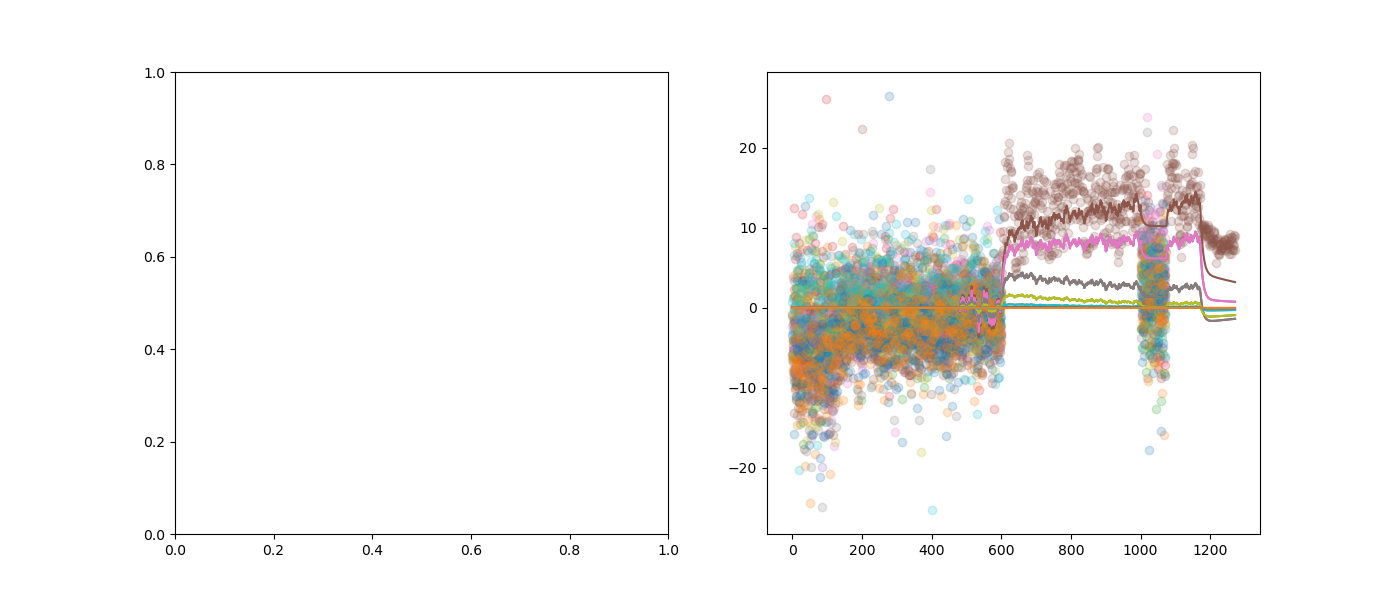
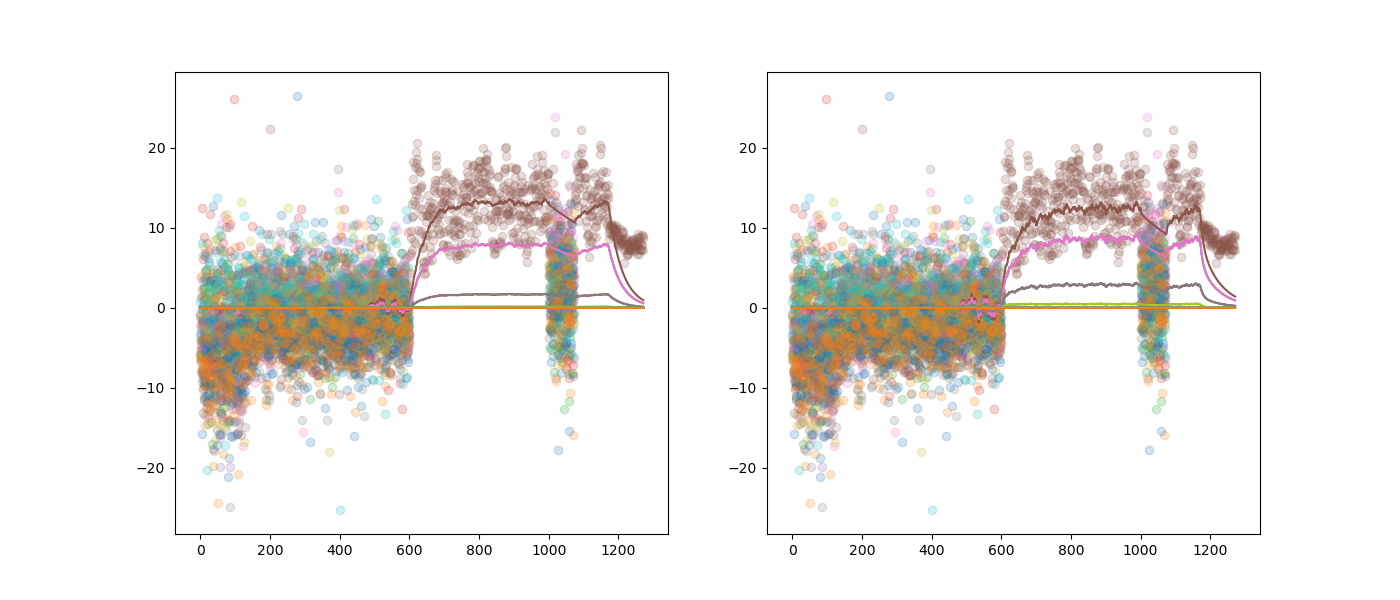
added grp to 1 state model

diff --git a/code/inspect_results.py b/code/inspect_results.py
@@ -184,6 +184,49 @@ def fit_obj_func_sse_2_state(params, *args):
 
     return (sse)
 
+def fit_state_space_with_g_func_grp():
+    f_name = '../fit_input/master_data.csv'
+
+    d = pd.read_csv(f_name)
+    p_rec = np.empty((0, 3))
+
+    rot = d[d['sub'] == 1]['Appl_Perturb'].values
+
+    x_obs_all = d.groupby(['cnd', 'Target', 'trial']).mean()
+    x_obs_all.reset_index(inplace=True)
+
+    for i in range(x_obs_all['cnd'].unique().shape[0]):
+        x_obs = x_obs_all[x_obs_all['cnd'] == i]
+        x_obs = x_obs[["Endpoint_Error", "Target", "target_deg", "trial"]]
+        x_obs = x_obs.pivot(index="trial",
+                            columns="target_deg",
+                            values="Endpoint_Error")
+
+        x_obs = x_obs.values
+
+        args = (x_obs, rot)
+        bounds = ((0, 1), (0, 1), (0, 60))
+        results = differential_evolution(func=fit_obj_func_sse,
+                                        bounds=bounds,
+                                        args=args,
+                                        maxiter=300,
+                                        disp=False,
+                                        polish=True,
+                                        updating="deferred",
+                                        workers=-1)
+        p = results["x"]
+        x_pred = simulate_state_space_with_g_func(p, rot)
+
+        c = cm.rainbow(np.linspace(0, 1, 12))
+
+        p_rec = np.append(p_rec, [p], axis=0)
+
+        f_name_p = "../fits/fit_grp_" + str(i)
+        with open(f_name_p, "w") as f:
+            np.savetxt(f, p, "%0.4f", ",")
+
+    return p_rec
+
 
 def fit_state_space_with_g_func_2_state_grp():
     f_name = '../fit_input/master_data.csv'
@@ -392,15 +435,15 @@ def inspect_fits_grp():
 
         fig, ax = plt.subplots(nrows=1, ncols=2, figsize=(14, 6))
 
-        # # NOTE: 1 state
-        # params = np.loadtxt("../fits/fit_grp" + str(sub[i]))
-        # x_pred = simulate_state_space_with_g_func(params, rot)
+        # NOTE: 1 state
+        params = np.loadtxt("../fits/fit_grp_" + str(i))
+        x_pred = simulate_state_space_with_g_func(params, rot)
 
-        # for ii in range(12):
-        #     ax[0].scatter(np.arange(0, x_obs.shape[0]),
-        #                   x_obs[:, ii],
-        #                   alpha=0.2)
-        # ax[0].plot(x_pred)
+        for ii in range(12):
+            ax[0].scatter(np.arange(0, x_obs.shape[0]),
+                          x_obs[:, ii],
+                          alpha=0.2)
+        ax[0].plot(x_pred)
 
         # NOTE: 2 state
         params = np.loadtxt("../fits/fit_2state_grp_" + str(i))
@@ -598,7 +641,8 @@ def inspect_fits_fancy():
 # simulate_state_space_with_g_func()
 # fit_state_space_with_g_func()
 # fit_state_space_with_g_func_2_state()
-fit_state_space_with_g_func_2_state_grp()
+# fit_state_space_with_g_func_grp()
+# fit_state_space_with_g_func_2_state_grp()
 # inspect_fits_fancy() # TODO: something is goofy
 # inspect_fits()
 inspect_fits_grp()
